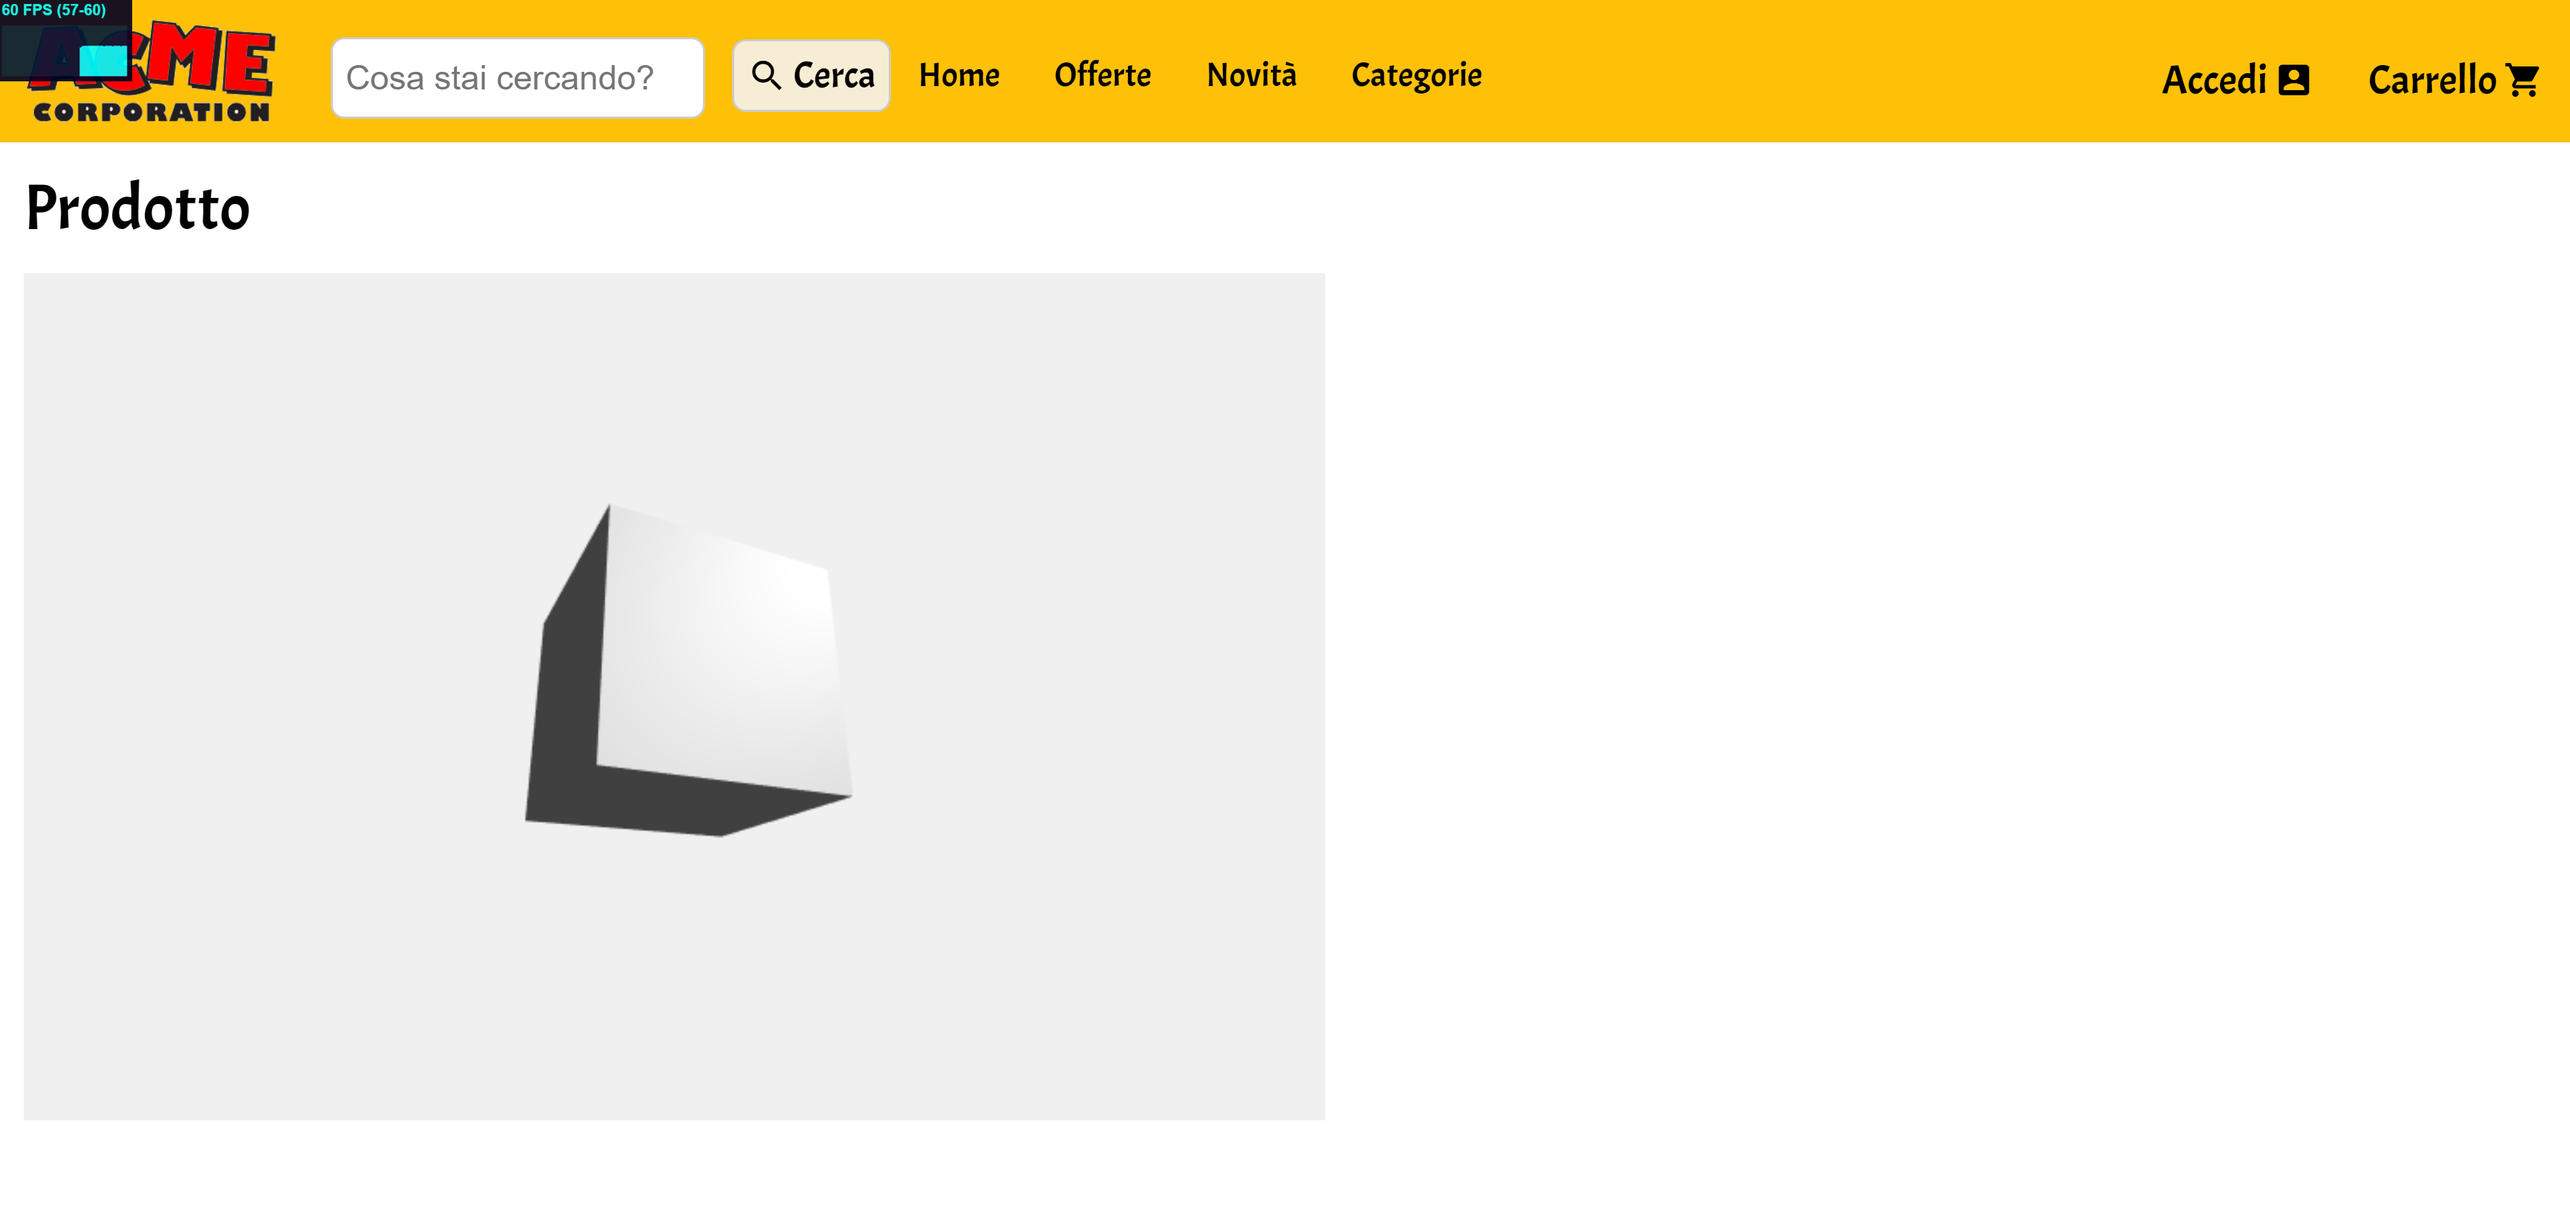
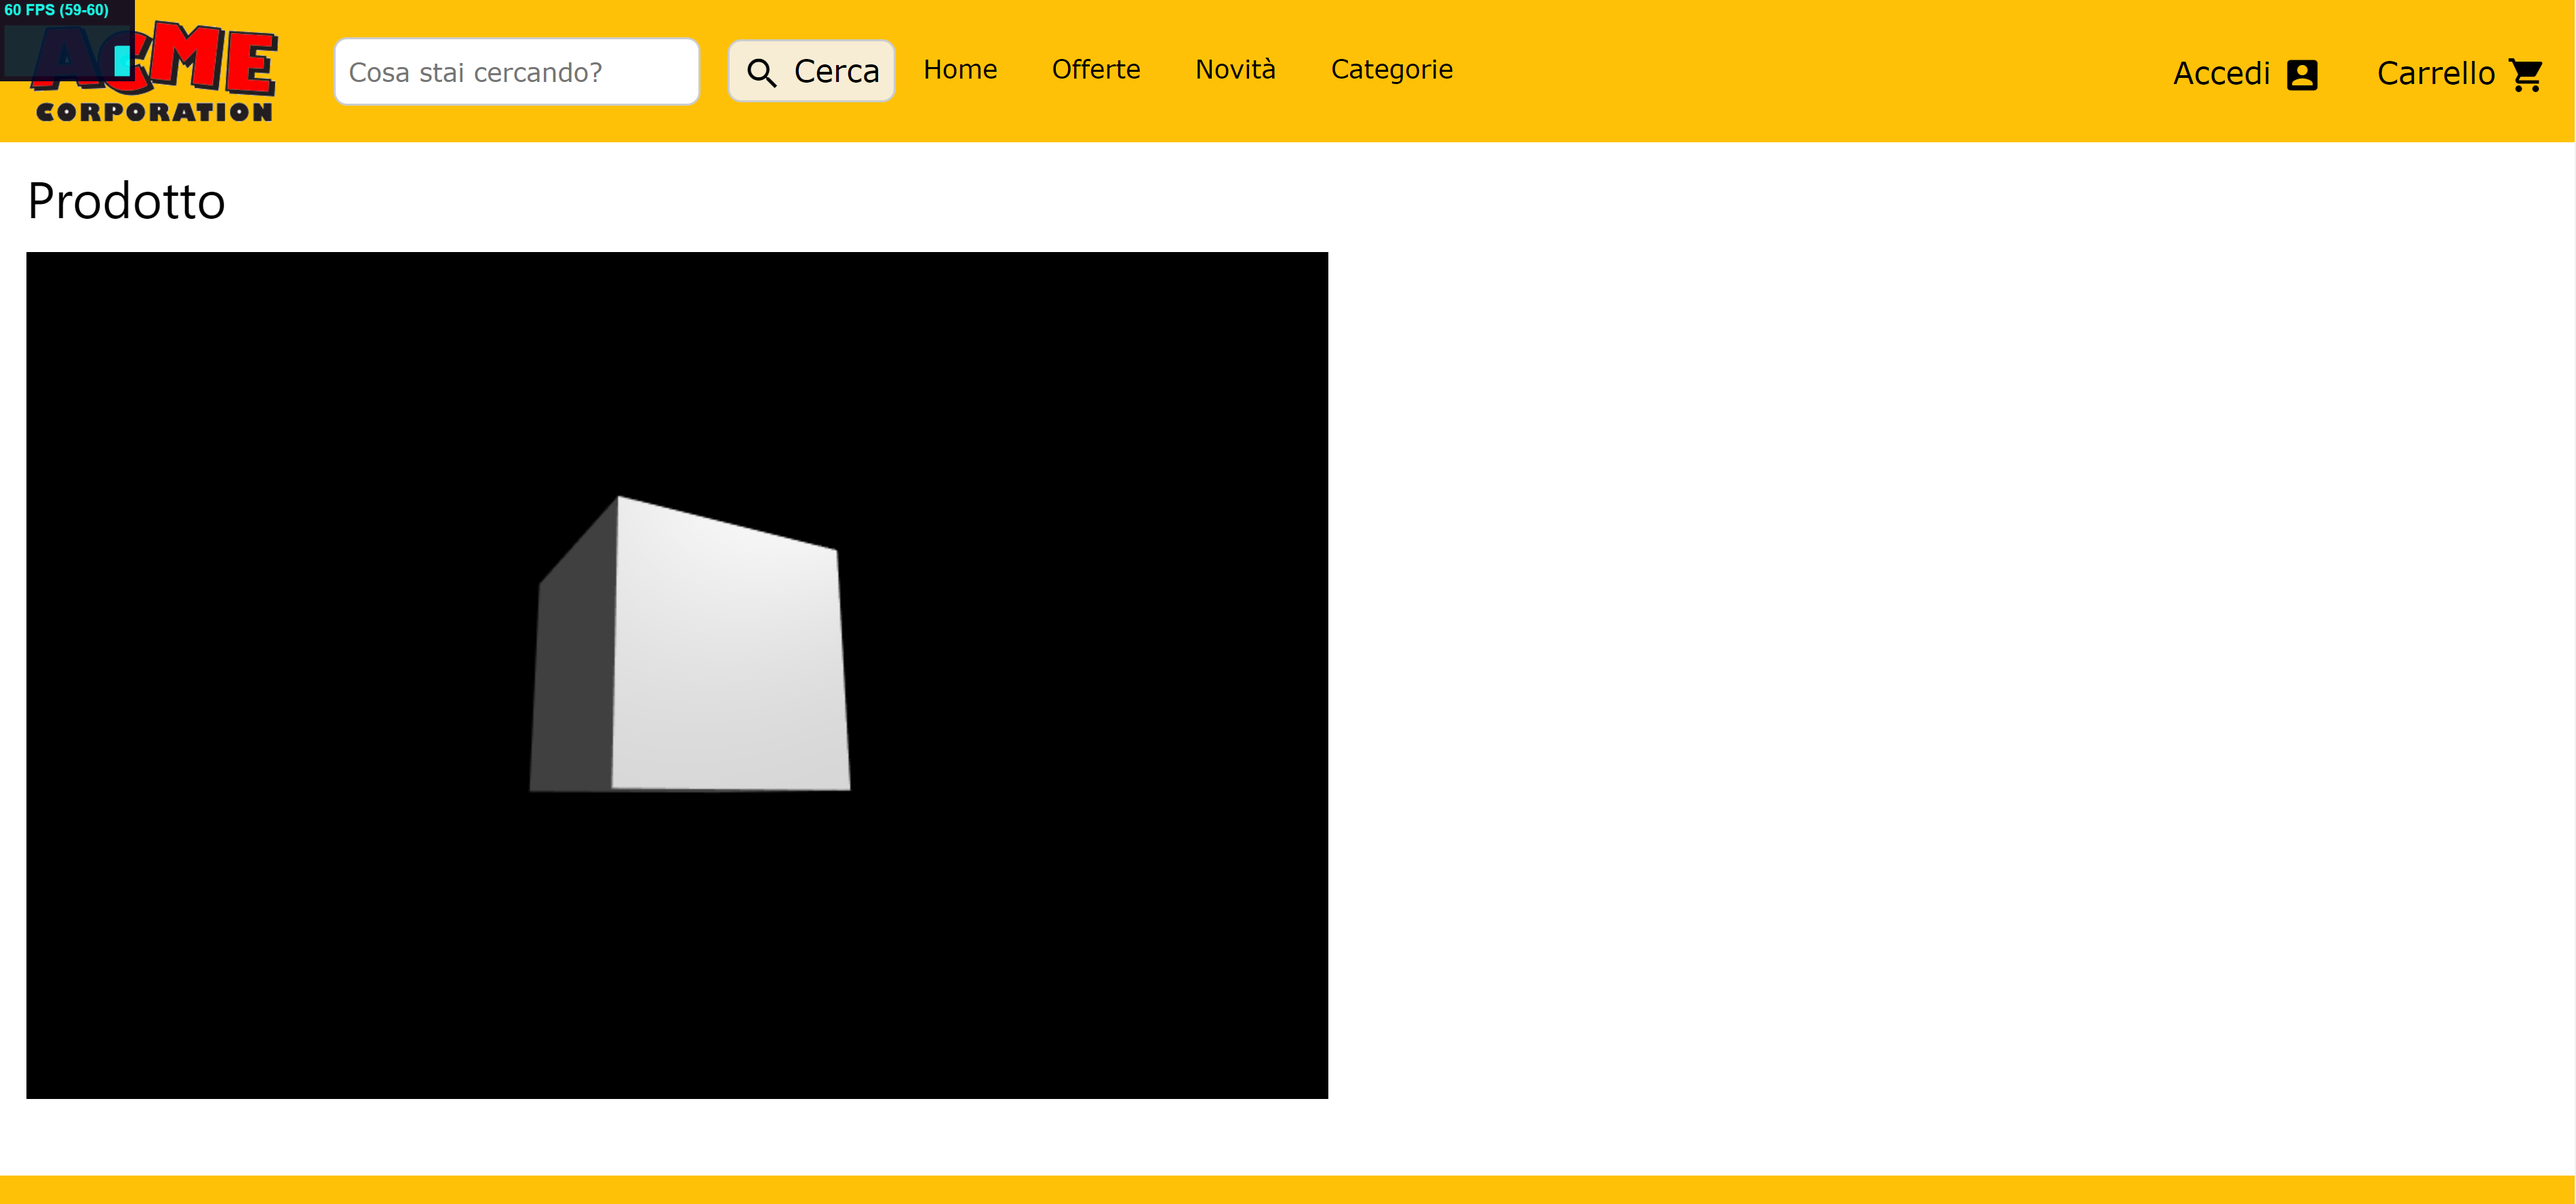
aggiornamento journal

diff --git a/journal.md b/journal.md
@@ -15,7 +15,8 @@
 * Ancora studio e ricerche su HTML e CSS per poter creare la pagina web in cui inserire il prodotto.
 * Ricerca online di possibili modelli 3D di oggetti da inserire nel progetto.
 * Alcune prove di rendering di un modello di vaso da fiori.
-* ACME vende qualsiasi cosa, quindi i siti web di riferimento per la creazione della pagina saranno i generici siti di e-commerce in cui è possibile comprare di tutto (Amazon, Ebay).
+* ACME vende qualsiasi cosa, quindi i siti web di riferimento per la creazione della pagina saranno i generici siti di e-commerce in cui è possibile comprare di tutto ([Amazon](https://www.amazon.it/),
+[eBay](https://www.ebay.it/)).
 * Progettazione su carta della pagina web.
 
 | ![Project webpage](pics/progetto_paginaweb.jpg) |
@@ -29,19 +30,24 @@
 * Prove di realizzazione della pagina web di prova.
 
 | ![First webpage](pics/pagina_prova.png) |
-| :---------------------------------------------: |
+| :-------------------------------------: |
 | Realizzazione della pagina web di prova |
 
 * Test di visualizzazione della pagina di prova da dispositivi mobili.
+
+| ![First mobile webpage](pics/pagina_prova_mobile.png) |
+| :---------------------------------------------------: |
+| Visualizzazione della pagina web di prova da dispositivo mobile |
+
 * Il vaso non convince come prodotto da visualizzare, ricerca di altri oggetti.
-* Trovato il modello di una porta.
+* Trovato il modello di una porta (da [free3d.com](https://free3d.com/it/3d-model/room-door-94798.html), modello realizzato da [3dhaupt](https://free3d.com/it/user/3dhaupt)).
 * Varie prove sul modello della porta.
 * Aggiornamento journal.
 
 # 1 luglio 2019
 
 * Creazione della repository del progetto.
-* Varie prove di materiali e texture sul modello della porta utilizzando gli shader visti a lezione.
+* Varie prove di materiali e texture sul modello della porta utilizzando gli shader visti a lezione (presi dagli esempi l14-microfacet-shader.html e l16-shadingWithTextures.html).
 * Aggiornamento journal.
 
 # 2 luglio 2019
@@ -54,10 +60,10 @@
 
 # 3 luglio 2019
 
-* Prove di visualizzazione del modello nella pagina web con cambio di materiali e mostra/nacondi telaio.
-* Scrittura del codice del file principale di caricamento del modello nella pagina web.
+* Prove di visualizzazione del modello nella pagina web con cambio di materiali e mostra/nascondi telaio.
+* Scrittura del codice del file principale per il caricamento del modello nella pagina web.
 * Scrittura del codice di prova per la creazione e modifica dei materiali.
-* Scrittura del codice del setup delle luci.
+* Scrittura del codice del setup delle luci dopo alcune ricerche online e i consigli di una persona esperta.
 * Varie prove di sistemazione layout della pagina web.
 * Aggiornamento journal.
 
@@ -66,22 +72,32 @@
 * Creazione dei pulsanti per cambio materiali maniglia e porta (con materiali di prova).
 * Creazione funzioni per il cambio dei materiali.
 * Ricerca delle texture.
-* Trovate texture di mogano e altro legno.
+* Trovate texture di legno ([noce](https://www.cc0textures.com/view.php?tex=Wood29) da [cc0textures.com](https://www.cc0textures.com/) e [mogano](https://3dtextures.me/2018/12/27/wood-009-mahogany/) da [3dtextures.me](https://3dtextures.me/).
+
+| ![Walnut and mahogany](pics/walnmog.png) |
+| :--------------------------------------: |
+| Texture di [noce](https://www.cc0textures.com/view.php?tex=Wood29) (sinistra) e [mogano](https://3dtextures.me/2018/12/27/wood-009-mahogany/) (destra) |
+
 * Varie prove con le texture trovate.
 * Modifiche ai pulsanti e al layout della pagina web.
 * Aggiornamento journal.
 
-# 4 luglio 2019
+# 5 luglio 2019
 
 * Creazione funzione per la modifica dinamica del prezzo in base ai materiali scelti.
 * Completate alcune parti della pagina web.
 * Ricerca di altre texture di legno e di plastica per porta e maniglia.
-* Inserimento delle texture nella pagina.
+* Inserimento delle nuove texture nella pagina.
 * Aggiornamento journal.
 
-TODO OrbitControls
+# 6 luglio 2019
+
+* Sistemate icone materiali.
+* Sistemati vari difetti della pagina web.
+* Sostituito l'alluminio con lo zinco in quanto non adatto a porte da interni.
+* Sistemati prezzi e caratteristiche prodotto.
+* Revisione codice.
+
+TODO inserire fonti modello e texture in journal e readme
 TODO stats
-TODO camera in mobile
-TODO dimensioni e prezzi realistici
-TODO descrizione materiali
 TODO cancellare file inutili
